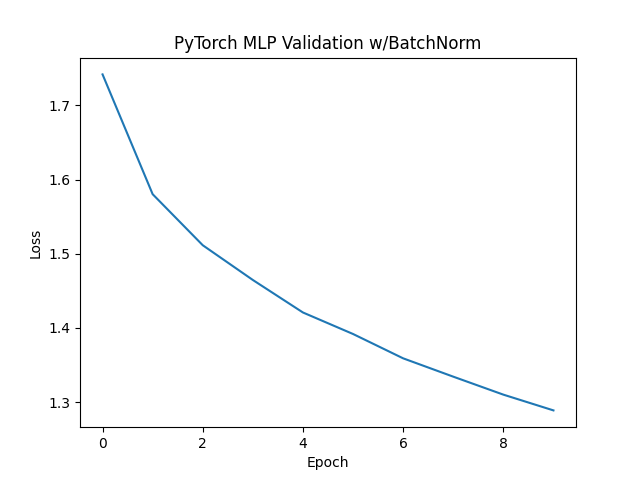
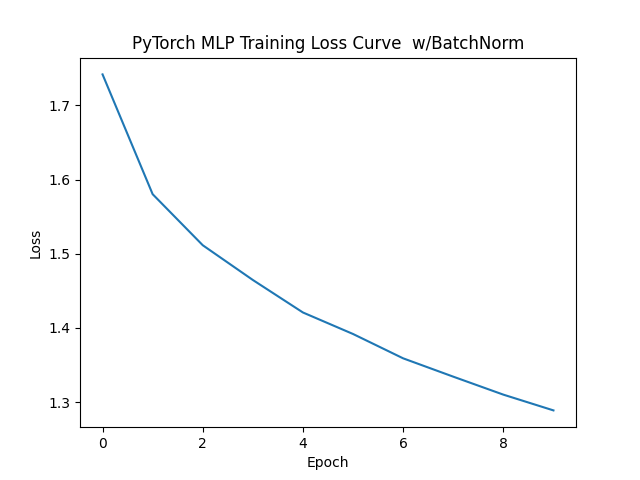
plotting validaton accuracy

Changed region(s): [[0.1875, 0.0625, 0.8125, 0.125]]

diff --git a/assignment1/compare_models.py b/assignment1/compare_models.py
@@ -21,6 +21,8 @@ from __future__ import absolute_import
 from __future__ import division
 from __future__ import print_function
 
+
+
 import numpy as np
 import os
 from mlp_pytorch import MLP
@@ -33,6 +35,9 @@ import torch.nn as nn
 import torch.optim as optim
 
 import argparse
+import json
+
+import matplotlib.pyplot as plt
 # Hint: you might want to import some plotting libraries or similar
 # You are also allowed to use libraries here which are not in the provided environment.
 
@@ -55,16 +60,33 @@ def train_models(results_filename, kwargs):
     # PUT YOUR CODE HERE  #
     #######################
     # TODO: Run all hyperparameter configurations as requested
-    best_model, val_accuracies, test_accuracy, logging_info = train_mlp_pytorch.train(**kwargs)
-    best_model_np, val_accuracies_np, test_accuracy_np, logging_info_np = train_mlp_numpy.train(**kwargs)
-    # TODO: Save all results in a file with the name 'results_filename'. This can e.g. by a json file
 
+    joined_data = {}
+
+    hidden_dims_combinations = kwargs.pop("hidden_dims_combinations")
+    use_batch_norm = kwargs.pop("use_batch_norm")
+
+    for hidden_dims in hidden_dims_combinations:
+        
+        print("Training Pytorch MLP with layers: " + str(hidden_dims))
+        _, _, _, logging_info_torch = train_mlp_pytorch.train(**kwargs, hidden_dims=hidden_dims, use_batch_norm=use_batch_norm)
+        print("Training Numpy MLP with layers: " + str(hidden_dims))
+        _, _, _, logging_info_np = train_mlp_numpy.train(**kwargs, hidden_dims=hidden_dims)
+        joined_data["numpy"][str(hidden_dims)] = logging_info_np
+        joined_data["torch"][str(hidden_dims)] = logging_info_torch
+    # TODO: Save all results in a file with the name 'results_filename'. This can e.g. by a json file
+    json_object = json.dumps(joined_data, indent=4)
+ 
+    with open(results_filename, "w") as outfile:
+        outfile.write(json_object)
+
+    return joined_data
     #######################
     # END OF YOUR CODE    #
     #######################
 
 
-def plot_results(results_filename):
+def plot_results(results_filename, logging_info):
     """
     Plots the results that were exported into the given file.
 
@@ -80,7 +102,46 @@ def plot_results(results_filename):
     #######################
     # PUT YOUR CODE HERE  #
     #######################
-    pass
+    if logging_info is None:
+        with open(FILENAME, 'r') as openfile:
+            logging_info = json.load(openfile)
+
+    assert logging_info is not None
+
+    logging_info_np = logging_info["numpy"]
+    logging_info_torch = logging_info["pytorch"]
+
+    fig, axs = plt.subplots(nrows=1, ncols=2)
+
+    fig.suptitle("PyTorch and NumPy MLP Evaluation with different Layer Combinations")
+
+    axs = axs.reshape(-1)
+
+    axs[0].set_title("Training Loss Curve")
+    axs[0].set_ylabel("Loss")
+    axs[0].set_xlabel("Epoch")
+
+    axs[1].set_title("Validation Accuracy Curve")
+    axs[1].set_xlabel("Epoch")
+    axs[1].set_ylabel("Validation Accuracy")
+
+    
+    for model_name in logging_info.keys():
+        for combination_name in logging_info[model_name].keys():
+            losses = logging_info[model_name][combination_name]["losses"]
+            accuracies = []
+            x = np.arange(len(losses))
+            for epoch in logging_info[model_name][combination_name]["validation"].keys():
+                accuracies.append(logging_info[model_name][combination_name]["validation"][epoch])
+            axs[0].plot(x, losses, label=model_name + "_" + combination_name)
+            axs[1].plot(x, accuracies, label=model_name + "_" + combination_name)
+    
+    axs[0].legend()
+    axs[1].legend()
+
+    plt.tight_layout()
+    plt.show()
+
     #######################
     # END OF YOUR CODE    #
     #######################
@@ -91,8 +152,10 @@ if __name__ == '__main__':
     parser = argparse.ArgumentParser()
     
     # Model hyperparameters
-    parser.add_argument('--hidden_dims', default=[128], type=int, nargs='+',
+    parser.add_argument('--hidden_dims_combinations', default=[[128], [256, 128], [512, 256, 128]], type=int, nargs='+',
                         help='Hidden dimensionalities to use inside the network. To specify multiple, use " " to separate them. Example: "256 128"')
+
+                        
     parser.add_argument('--use_batch_norm', action='store_false',
                         help='Use this option to add Batch Normalization layers to the MLP.')
     
@@ -103,7 +166,7 @@ if __name__ == '__main__':
                         help='Minibatch size')
 
     # Other hyperparameters
-    parser.add_argument('--epochs', default=10, type=int,
+    parser.add_argument('--epochs', default=0, type=int,
                         help='Max number of epochs')
     parser.add_argument('--seed', default=42, type=int,
                         help='Seed to use for reproducing results')
@@ -113,7 +176,8 @@ if __name__ == '__main__':
     args = parser.parse_args()
     kwargs = vars(args)
 
-    FILENAME = 'results.txt' 
+    FILENAME = 'results.json' 
+    data_dict = None
     if not os.path.isfile(FILENAME):
-        train_models(FILENAME, kwargs)
-    plot_results(FILENAME)
+        data_dict = train_models(FILENAME, kwargs)
+    #plot_results(FILENAME, data_dict)

diff --git a/assignment1/train_mlp_pytorch.py b/assignment1/train_mlp_pytorch.py
@@ -296,7 +296,7 @@ def train(hidden_dims, lr, use_batch_norm, batch_size, epochs, seed, data_dir, n
 
     return best_model, val_accuracies, test_accuracy, logging_info
 
-def saveLossFunctionPlot(logging_info, filepath = "pytorch_loss_batchNorm.png"):
+def saveLossFunctionPlot(logging_info, filepath = "pytorch_loss.png"):
   losses = logging_info["train"]["losses"]
   n_epochs = logging_info["info"]["epochs"]
   
@@ -304,12 +304,27 @@ def saveLossFunctionPlot(logging_info, filepath = "pytorch_loss_batchNorm.png"):
   fig, ax = plt.subplots()
   plt.xlabel("Epoch")
   plt.ylabel("Loss")
-  plt.title("PyTorch MLP Validation w/BatchNorm")
+  plt.title("PyTorch MLP Training Loss Curve")
   ax.plot(x_axis, losses)
 
   plt.savefig(filepath)
     
+def saveAccuracyLossCurve(logging_info, filepath = "pytorch_validation_accuracy.png"):
+  accuracies = []
 
+  for metric in logging_info["validation"]:
+    accuracies.append(metric["accuracy"])
+
+  
+  x_axis = np.arange(len(accuracies))
+  fig, ax = plt.subplots()
+  plt.xlabel("Epoch")
+  plt.ylabel("Validation Accuracy")
+  plt.title("PyTorch MLP Validation Accuracy")
+  ax.plot(x_axis, accuracies)
+
+  plt.savefig(filepath)
+  
 
 if __name__ == '__main__':
     # Command line arguments
@@ -318,7 +333,7 @@ if __name__ == '__main__':
     # Model hyperparameters
     parser.add_argument('--hidden_dims', default=[128], type=int, nargs='+',
                         help='Hidden dimensionalities to use inside the network. To specify multiple, use " " to separate them. Example: "256 128"')
-    parser.add_argument('--use_batch_norm', action='store_false',
+    parser.add_argument('--use_batch_norm', action='store_true',
                         help='Use this option to add Batch Normalization layers to the MLP.')
     
     # Optimizer hyperparameters
@@ -341,4 +356,4 @@ if __name__ == '__main__':
     best_model, val_accuracies, test_accuracy, logging_info = train(**kwargs)
 
     saveLossFunctionPlot(logging_info)
-    # Feel free to add any additional functions, such as plotting of the loss curve here
+    saveAccuracyLossCurve(logging_info)

diff --git a/assignment1/train_mlp_numpy.py b/assignment1/train_mlp_numpy.py
@@ -312,8 +312,24 @@ def saveLossFunctionPlot(logging_info, filepath = "numpy_loss.png"):
   fig, ax = plt.subplots()
   plt.xlabel("Epoch")
   plt.ylabel("Loss")
-  plt.title("Numpy MLP Validation")
+  plt.title("NumPy MLP Training Loss Curve")
   ax.plot(x_axis, losses)
+
+  plt.savefig(filepath)
+
+def saveAccuracyLossCurve(logging_info, filepath = "numpy_validation_accuracy.png"):
+  accuracies = []
+
+  for metric in logging_info["validation"]:
+    accuracies.append(metric["accuracy"])
+
+  
+  x_axis = np.arange(len(accuracies))
+  fig, ax = plt.subplots()
+  plt.xlabel("Epoch")
+  plt.ylabel("Validation Accuracy")
+  plt.title("NumPy MLP Validation Accuracy")
+  ax.plot(x_axis, accuracies)
 
   plt.savefig(filepath)
     
@@ -347,7 +363,7 @@ if __name__ == '__main__':
 
     best_model, val_accuracies, test_accuracy, logging_info = train(**kwargs)
     saveLossFunctionPlot(logging_info)
-    
+    saveAccuracyLossCurve(logging_info)
 
     # Feel free to add any additional functions, such as plotting of the loss curve here
     
